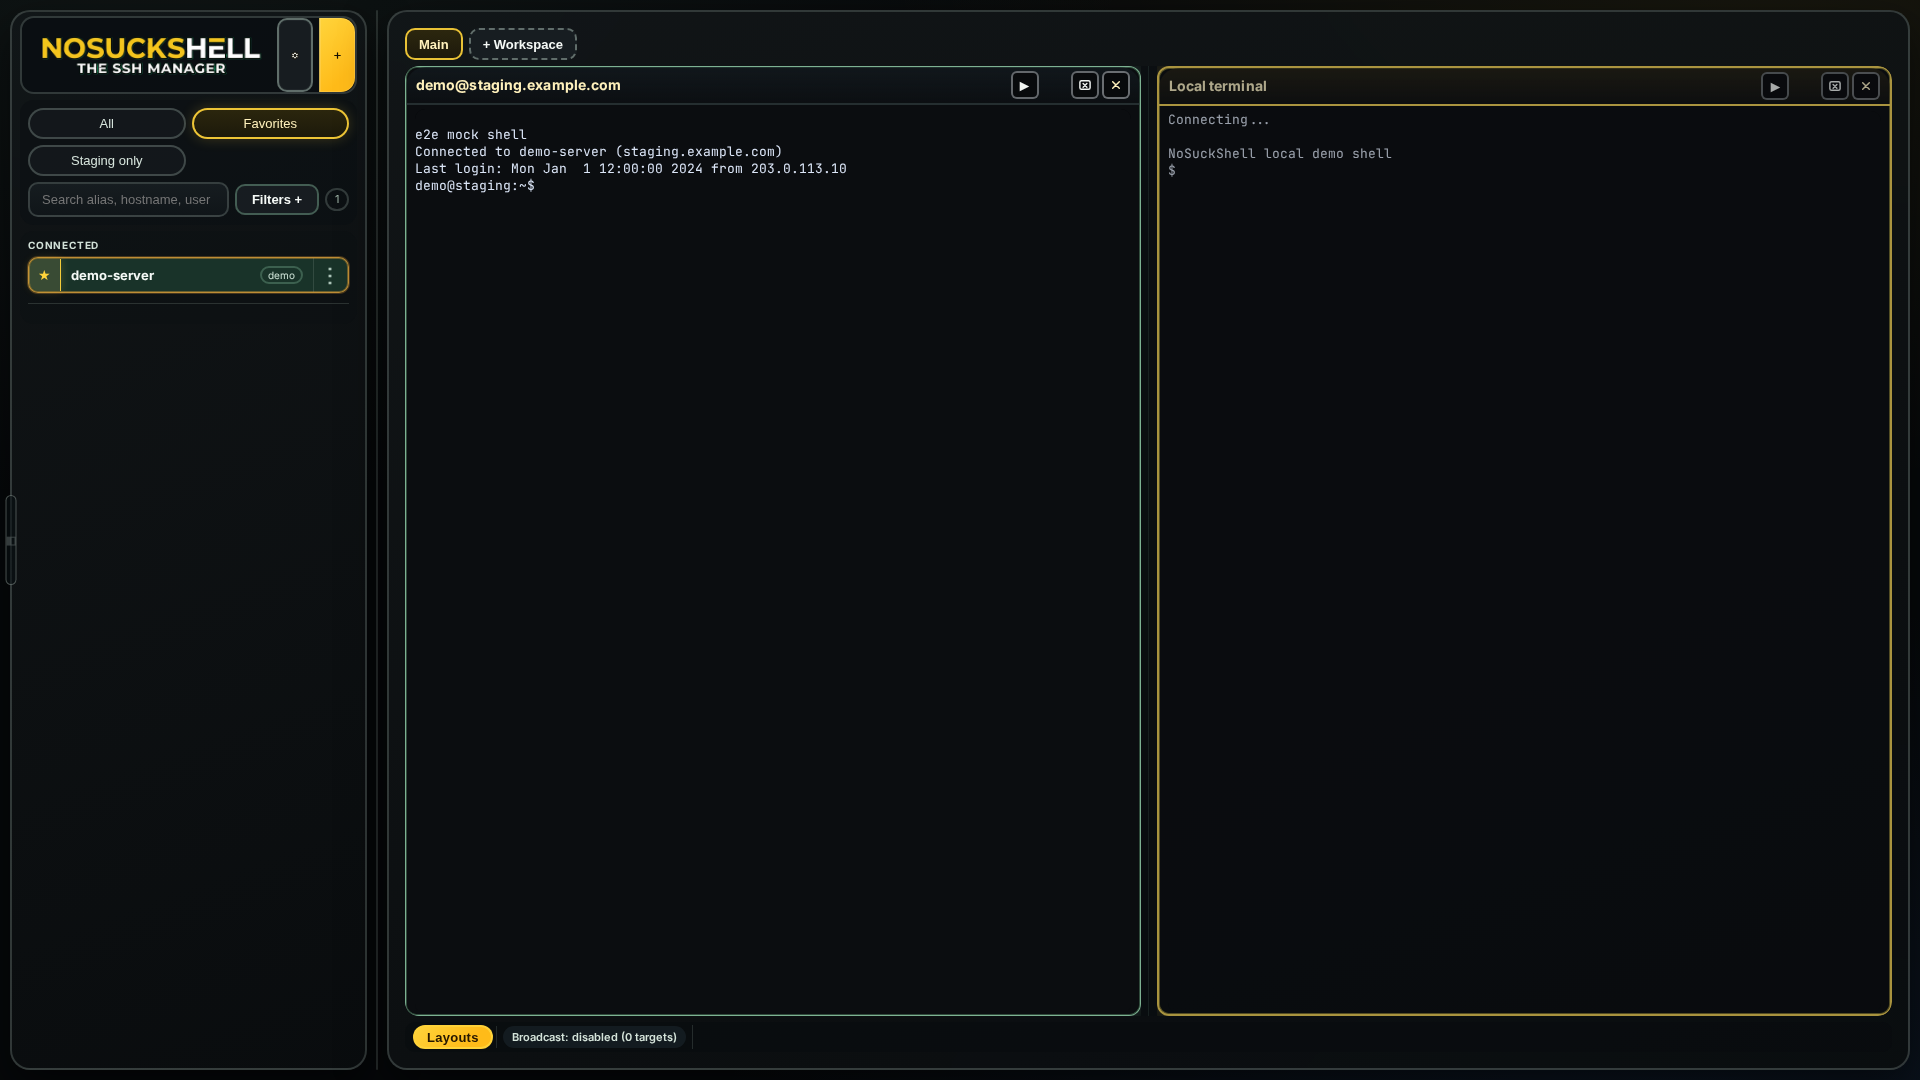
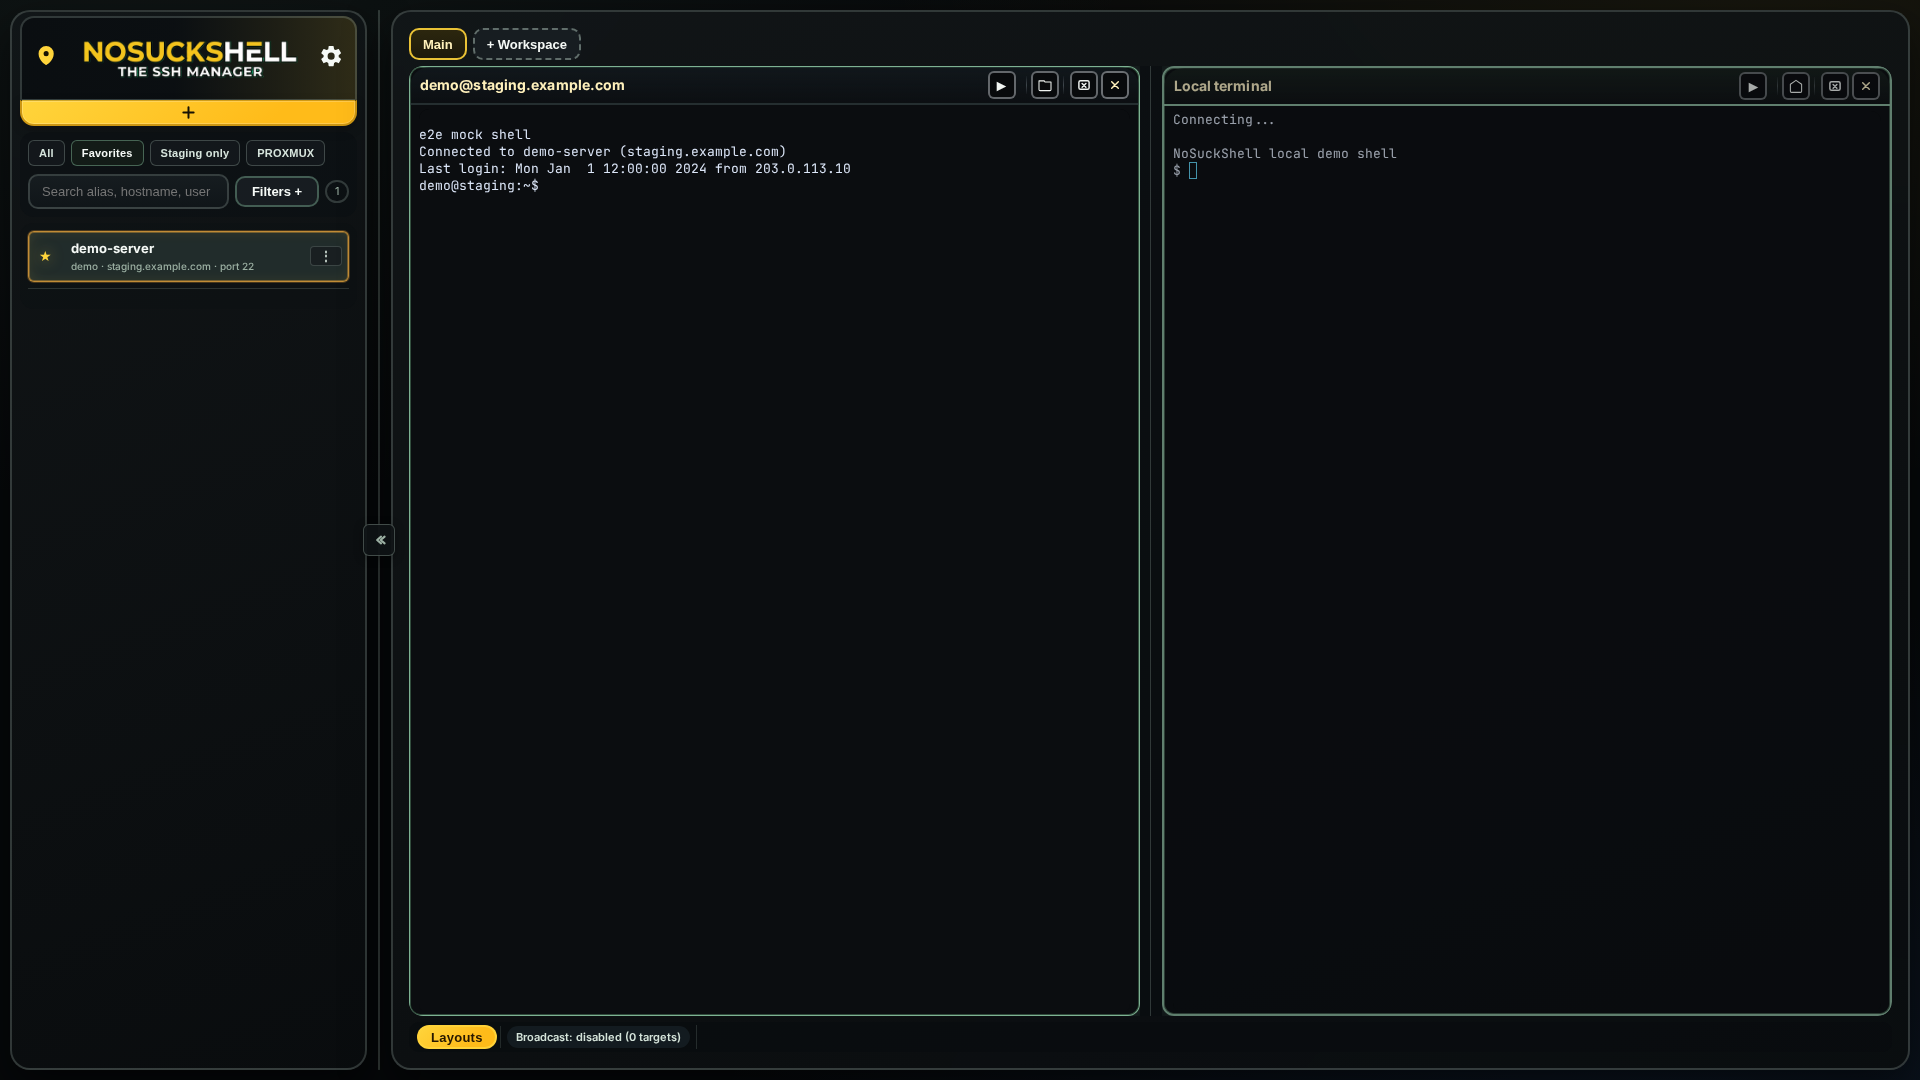
chore(release): prepare 0.1.0-beta.7 — docs, Help, screenshots, version bump
- Bump desktop app to 0.1.0-beta.7 (package.json, tauri, Cargo)
- CHANGELOG, README, releases, issue template, docs index, architecture (PROXMUX)
- HelpPanel: PROXMUX chapter and updated settings tab reference
- Regenerate Flathub and store screenshot PNGs

diff --git a/apps/desktop/src/components/HelpPanel.tsx b/apps/desktop/src/components/HelpPanel.tsx
@@ -272,19 +272,69 @@ const identitySections: HelpSection[] = [
   },
 ];
 
+const proxmuxSections: HelpSection[] = [
+  {
+    title: "PROXMUX (Proxmox)",
+    rows: [
+      {
+        action: "What it is",
+        mouse:
+          "Optional built-in integration for Proxmox VE: one or more clusters, guest/resource listing in the sidebar when the plugin is enabled and entitled, and Proxmox web consoles.",
+        keys: "-",
+      },
+      {
+        action: "Configure",
+        mouse:
+          "Settings → Integrations → PROXMUX: cluster URLs, credentials, TLS options. Use Plugins & license if the feature is gated by a license entitlement.",
+        keys: "-",
+      },
+      {
+        action: "Sidebar",
+        mouse:
+          "When PROXMUX is available, a sidebar section lists clusters and guests; open consoles or SSH from the row actions where supported.",
+        keys: "-",
+      },
+      {
+        action: "Web console",
+        mouse:
+          "Choose whether Proxmox noVNC/SPICE/HTML5 consoles open inside an app pane or in your default browser (toggle on the PROXMUX settings tab).",
+        keys: "-",
+      },
+    ],
+  },
+];
+
 const settingsSections: HelpSection[] = [
   {
     title: "Settings tabs (reference)",
     rows: [
-      { action: "Appearance", mouse: "Density, fonts, list tone, frame mode.", keys: "-" },
-      { action: "Layout & Navigation", mouse: "Split behavior, auto-arrange, broadcast, sidebar pin, quick connect options.", keys: "-" },
-      { action: "Files & export", mouse: "File pane titles, export paths, archive format, semantic file colors.", keys: "-" },
-      { action: "Views", mouse: "Custom host list views (filters and sort).", keys: "-" },
-      { action: "Identity Store", mouse: "Users, keys, groups, tags, per-host bindings (see above).", keys: "-" },
-      { action: "SSH", mouse: "SSH config path override and raw config editor.", keys: "-" },
+      {
+        action: "Connection",
+        mouse: "Hosts (SSH config + host list) and SSH (SSH directory override and raw config editor).",
+        keys: "-",
+      },
+      {
+        action: "Identity Store",
+        mouse: "Overview, Users, SSH keys, Groups, Tags — including per-host bindings (see Identity Store chapter).",
+        keys: "-",
+      },
+      {
+        action: "Workspace",
+        mouse: "Views (filters/sort), Layout & navigation (splits, broadcast, quick connect), Files & export.",
+        keys: "-",
+      },
+      {
+        action: "Integrations",
+        mouse: "PROXMUX (Proxmox) and Plugins & license (built-in plugins, license token).",
+        keys: "-",
+      },
+      {
+        action: "Interface",
+        mouse: "Appearance (density, fonts, list tone, visual style reset) and Keyboard (shortcuts and leader key).",
+        keys: "-",
+      },
       { action: "Data & Backup", mouse: "Encrypted backup export/import.", keys: "-" },
-      { action: "Help", mouse: "This page.", keys: "-" },
-      { action: "About", mouse: "Version and links.", keys: "-" },
+      { action: "Help & info", mouse: "This Help page and About (version and links).", keys: "-" },
     ],
   },
 ];
@@ -354,7 +404,7 @@ const helpChapters: HelpChapter[] = [
     id: "help-overview",
     title: "Overview",
     intro: [
-      "NoSuckShell is a workspace for saved SSH hosts, split terminals, drag-and-drop, optional input broadcast, and a dual-pane file browser. Use the links below to jump between chapters.",
+      "NoSuckShell is a workspace for saved SSH hosts, split terminals, drag-and-drop, optional input broadcast, a dual-pane file browser, and optional PROXMUX (Proxmox) integration. Use the links below to jump between chapters.",
       "While a terminal pane is focused, keystrokes go to the shell—use the toolbar, context menus, footer, or Settings for app actions.",
     ],
     sections: [],
@@ -382,6 +432,14 @@ const helpChapters: HelpChapter[] = [
       "Optional but powerful: link store users and keys to hosts so sessions pick up the right credentials and proxy defaults.",
     ],
     sections: identitySections,
+  },
+  {
+    id: "help-proxmux",
+    title: "PROXMUX",
+    intro: [
+      "Optional Proxmox VE integration: clusters, guest lists, and web consoles. Requires the built-in PROXMUX plugin and, where applicable, license entitlements.",
+    ],
+    sections: proxmuxSections,
   },
   {
     id: "help-settings",
@@ -441,7 +499,7 @@ function renderSectionTable(
 /**
  * In-app help: chapters + cheatsheet tables.
  * Keep in sync with App.tsx, context-actions.ts, features/file-pane-name-kind.ts,
- * host metadata / session SSH flags, and Identity Store UI.
+ * host metadata / session SSH flags, Identity Store UI, app settings tabs, and PROXMUX.
  */
 export type HelpPanelProps = {
   resolveHelpShortcutLabel?: (action: string) => string | undefined;

diff --git a/docs/CHANGELOG.md b/docs/CHANGELOG.md
@@ -2,6 +2,25 @@
 
 All notable changes to **NoSuckShell** are documented here. Version numbers follow the desktop app (`apps/desktop`); GitHub releases are created from `v*` tags (see [releases.md](releases.md)).
 
+## [0.1.0-beta.7] - 2026-03-23
+
+**Pre-release.** Binaries are published after you push tag [`v0.1.0-beta.7`][v0.1.0-beta.7] and the [release workflow](../.github/workflows/release.yml) completes.
+
+### Added
+
+- **PROXMUX integration** — Built-in plugin `dev.nosuckshell.plugin.proxmux`: Proxmox cluster configuration, guest/resource browsing in the sidebar when entitled, **Integrations** → **PROXMUX** for credentials and options (including opening Proxmox web consoles in an embedded pane vs the system browser), adaptive polling and startup warmup behavior.
+- **App settings** — Restructured **Settings** with clearer sub-tabs; **Integrations** groups PROXMUX and **Plugins & license**; **Visual style** reset for appearance.
+- **Contributor documentation** — [STYLE_GUIDE.md](STYLE_GUIDE.md), [CODE_GUIDE.md](CODE_GUIDE.md), and [AGENTS.md](../AGENTS.md); linked from [CONTRIBUTING.md](../CONTRIBUTING.md).
+
+### Changed
+
+- **Tests / DOM** — E2E selectors updated for the sidebar host row (`.proxmux-sidebar-row-main`).
+
+### Notes
+
+- Installers remain **unsigned**; see [releases.md](releases.md) for signing / notarization follow-up.
+- In-app **Help** should stay aligned with Settings and PROXMUX behavior; update [`HelpPanel.tsx`](../apps/desktop/src/components/HelpPanel.tsx) when UX changes.
+
 ## [0.1.0-beta.6] - 2026-03-22
 
 **Pre-release.** Binaries are published after you push tag [`v0.1.0-beta.6`][v0.1.0-beta.6] and the [release workflow](../.github/workflows/release.yml) completes.
@@ -86,3 +105,4 @@ Pre-release [`v0.1.0-beta.1`][v0.1.0-beta.1].
 [v0.1.0-beta.4]: https://github.com/d0dg3r/NoSuckShell/releases/tag/v0.1.0-beta.4
 [v0.1.0-beta.5]: https://github.com/d0dg3r/NoSuckShell/releases/tag/v0.1.0-beta.5
 [v0.1.0-beta.6]: https://github.com/d0dg3r/NoSuckShell/releases/tag/v0.1.0-beta.6
+[v0.1.0-beta.7]: https://github.com/d0dg3r/NoSuckShell/releases/tag/v0.1.0-beta.7

diff --git a/docs/README.md b/docs/README.md
@@ -4,7 +4,7 @@ Index of maintained documentation for NoSuckShell.
 
 ## In the app
 
-- **Help** (Settings → Help, or the Help tab in app settings): chaptered in-app reference—interactions, SSH/host keys, Identity Store, settings tabs, **keyboard shortcuts**, data locations, and known limitations. Source: [`apps/desktop/src/components/HelpPanel.tsx`](../apps/desktop/src/components/HelpPanel.tsx) (keep in sync when behavior changes).
+- **Help** (Settings → Help & info → Help, or the Help tab in app settings): chaptered in-app reference—interactions, SSH/host keys, Identity Store, **PROXMUX**, settings tabs, **keyboard shortcuts**, data locations, and known limitations. Source: [`apps/desktop/src/components/HelpPanel.tsx`](../apps/desktop/src/components/HelpPanel.tsx) (keep in sync when behavior changes).
 
 ## In this folder
 
@@ -17,6 +17,9 @@ Index of maintained documentation for NoSuckShell.
 | [roadmap.md](roadmap.md) | Planned plugin-shaped work (GitHub sync, Bitwarden, Vault, NSS-Commander). |
 | [releases.md](releases.md) | Release tagging and GitHub releases. |
 | [CHANGELOG.md](CHANGELOG.md) | User-facing release notes per version. |
+| [STYLE_GUIDE.md](STYLE_GUIDE.md) | English UI copy and documentation tone (contributors and agents). |
+| [CODE_GUIDE.md](CODE_GUIDE.md) | Implementation conventions, tests, and validation. |
+| [AGENTS.md](../AGENTS.md) | Short index for IDE assistants (links to the guides above). |
 | [backup-security.md](backup-security.md) | Encrypted backup format and security notes. |
 | [plans/2026-03-17-ssh-manager-design.md](plans/2026-03-17-ssh-manager-design.md) | Historical MVP / design notes (SSH manager). |
 | [refactoring-app-roadmap.md](refactoring-app-roadmap.md) | Notes on splitting or hardening `App.tsx`. |

diff --git a/README.md b/README.md
@@ -93,13 +93,13 @@ Details: [docs/backup-security.md](docs/backup-security.md)
 GitHub releases are created by pushing a SemVer tag:
 
 - Final: `vMAJOR.MINOR.PATCH` (example: `v1.2.3`)
-- Pre-release: `vMAJOR.MINOR.PATCH-<suffix>` (example: `v1.2.4-rc.1`, `v0.1.0-beta.6`)
+- Pre-release: `vMAJOR.MINOR.PATCH-<suffix>` (example: `v1.2.4-rc.1`, `v0.1.0-beta.7`)
 
-**Current pre-release line:** `v0.1.0-beta.6` (push the tag when you want CI to publish binaries). Changelog: [docs/CHANGELOG.md](docs/CHANGELOG.md).
+**Current pre-release line:** `v0.1.0-beta.7` (push the tag when you want CI to publish binaries). Changelog: [docs/CHANGELOG.md](docs/CHANGELOG.md).
 
 ```bash
-git tag v0.1.0-beta.6
-git push origin v0.1.0-beta.6
+git tag v0.1.0-beta.7
+git push origin v0.1.0-beta.7
 ```
 
 Full checklist: [docs/releases.md](docs/releases.md)
@@ -113,6 +113,8 @@ If the workflow rejects the tag, use `vMAJOR.MINOR.PATCH` or `vMAJOR.MINOR.PATCH
 | [docs/README.md](docs/README.md) | Documentation index |
 | [docs/CHANGELOG.md](docs/CHANGELOG.md) | Release notes |
 | [docs/architecture.md](docs/architecture.md) | App architecture (Tauri, React, Rust, IPC) |
+| [docs/STYLE_GUIDE.md](docs/STYLE_GUIDE.md) / [docs/CODE_GUIDE.md](docs/CODE_GUIDE.md) | Style and implementation guides |
+| [AGENTS.md](AGENTS.md) | IDE / agent entry point |
 | [CONTRIBUTING.md](CONTRIBUTING.md) | Setup, validation, pull requests |
 | [SECURITY.md](SECURITY.md) | Reporting vulnerabilities |
 | [CODE_OF_CONDUCT.md](CODE_OF_CONDUCT.md) | Community standards |

diff --git a/docs/releases.md b/docs/releases.md
@@ -5,7 +5,7 @@ This repository publishes desktop releases from Git tags via GitHub Actions.
 ## Tag convention
 
 - Final release: `vMAJOR.MINOR.PATCH` (example: `v1.2.3`)
-- Pre-release: `vMAJOR.MINOR.PATCH-<prerelease>` (example: `v1.2.3-rc.1`, `v0.1.0-beta.6`)
+- Pre-release: `vMAJOR.MINOR.PATCH-<prerelease>` (example: `v1.2.3-rc.1`, `v0.1.0-beta.7`)
 - Accepted prerelease token format: dot-separated `[0-9A-Za-z-]+` parts.
 
 Validation regex in workflow:
@@ -87,14 +87,14 @@ git tag v0.3.0-rc.1
 git push origin v0.3.0-rc.1
 
 # beta prerelease (current line)
-git tag v0.1.0-beta.6
-git push origin v0.1.0-beta.6
+git tag v0.1.0-beta.7
+git push origin v0.1.0-beta.7
 ```
 
 ## Current beta (planned)
 
-- **Target tag:** `v0.1.0-beta.6` — push when you are ready; in-repo versions in `package.json`, `tauri.conf.json`, and `Cargo.toml` match this prerelease.
-- **What ships:** see [CHANGELOG.md](CHANGELOG.md) for `0.1.0-beta.6`.
+- **Target tag:** `v0.1.0-beta.7` — push when you are ready; in-repo versions in `package.json`, `tauri.conf.json`, and `Cargo.toml` match this prerelease.
+- **What ships:** see [CHANGELOG.md](CHANGELOG.md) for `0.1.0-beta.7`.
 - The release workflow still **overwrites** those files from the tag at build time; keeping them in sync avoids drift before the tag lands.
 
 ## Common pitfalls checklist

diff --git a/docs/architecture.md b/docs/architecture.md
@@ -89,6 +89,14 @@ Future **Phase 2** (not implemented): load third-party code via WASM or signed b
 
 Planned plugin-shaped features (GitHub settings sync, Bitwarden, HashiCorp Vault, NSS-Commander) are listed with proposed IDs in [roadmap.md](roadmap.md).
 
+## PROXMUX (Proxmox) integration
+
+**Built-in plugin** `dev.nosuckshell.plugin.proxmux` ([`plugins/proxmux.rs`](../apps/desktop/src-tauri/src/plugins/proxmux.rs) and UI under [`ProxmuxSidebarPanel.tsx`](../apps/desktop/src/components/ProxmuxSidebarPanel.tsx), [`AppSettingsProxmuxTab.tsx`](../apps/desktop/src/components/settings/tabs/AppSettingsProxmuxTab.tsx)):
+
+- **Settings → Integrations → PROXMUX:** cluster URLs, credentials, TLS options, and whether Proxmox web consoles open in an embedded webview pane or the system browser.
+- **Sidebar:** when the plugin is enabled and entitled, lists clusters and guests; uses `plugin_invoke` for RPC-style calls (resource lists, guest status, console URLs).
+- **Startup:** optional warmup delays reduce duplicate work when the sidebar becomes visible (see [`proxmux-startup-warmup.ts`](../apps/desktop/src/features/proxmux-startup-warmup.ts)).
+
 ## SSH session path (terminal)
 
 1. UI calls `start_session` with a `HostConfig` (alias, HostName, user, port, identity file, `proxyJump`, `proxyCommand`).

diff --git a/.github/ISSUE_TEMPLATE/bug_report.md b/.github/ISSUE_TEMPLATE/bug_report.md
@@ -6,7 +6,7 @@ labels: bug
 
 ## Environment
 
-- NoSuckShell version (or commit), e.g. `0.1.0-beta.6` or `git rev-parse HEAD`:
+- NoSuckShell version (or commit), e.g. `0.1.0-beta.7` or `git rev-parse HEAD`:
 - OS / distro (e.g. CachyOS, macOS 14, Windows 11):
 - If Linux WebKit issues: did you try `WEBKIT_DISABLE_DMABUF_RENDERER=1`? (yes/no)
 
